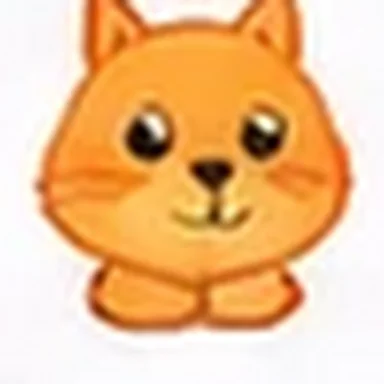
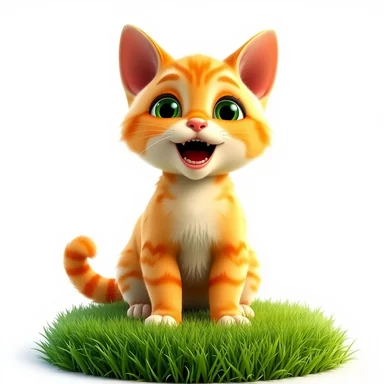
تصویرهای تازه با Cloudflare Workers AI برای ۱۵ صدای کمکیفیت و مکان غار
Claude-Session: https://claude.ai/code/session_01PLxCJkbjDqwwx5gYhwRCb4

diff --git a/art/source/cloudflare/README.md b/art/source/cloudflare/README.md
@@ -1,0 +1,8 @@
+# تصویرهای ساختهشده با Cloudflare Workers AI
+
+مدل `@cf/black-forest-labs/flux-1-schnell` (۸ گام، ۱۰۲۴×۱۰۲۴)، از طریق `.claude/skills/level-3-image-generator/generate.py`.
+همه به سبک «کارتون سهبعدی، نور نرم، زمینهی سفید». خروجی برنامه با `tools/prepare_assets.py` (`card_image`، ۳۸۴×۳۸۴ WebP)
+در `assets/images/sounds/` و `assets/images/places/` (پیشوند `place_`) ساخته شده است.
+
+صداها: bird، cat، drum، rocket، rabbit، rain، flute، guitar، laser، satellite، spaceship، typing، wind، sea، river — مکان: cave.
+هیچ کلید یا شناسهای در مخزن نیست؛ اعتبارنامهها فقط در تنظیمات محیطاند.
